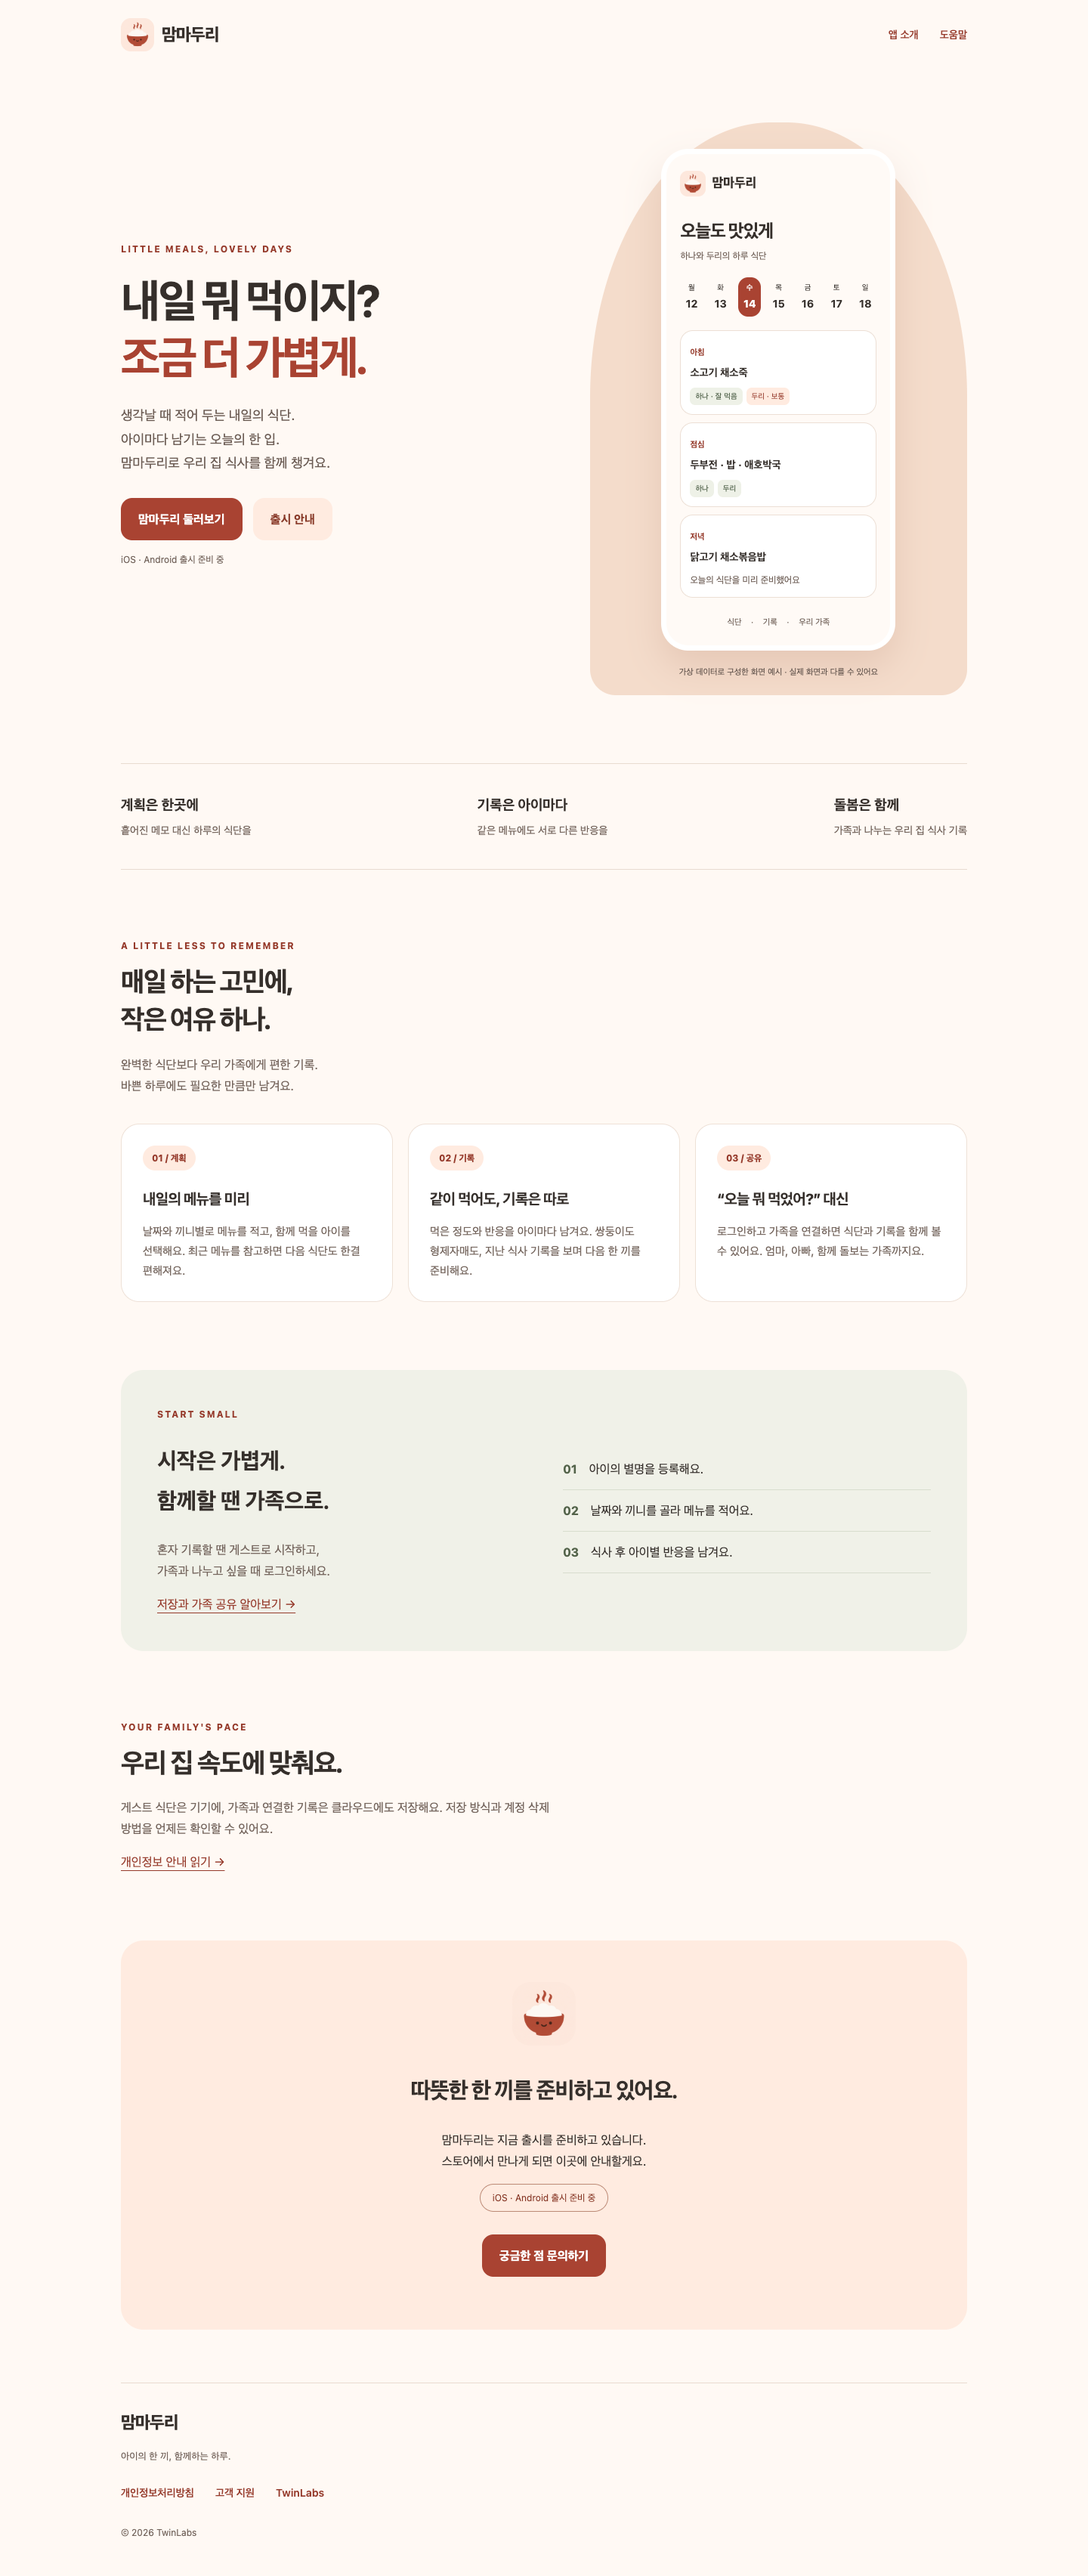
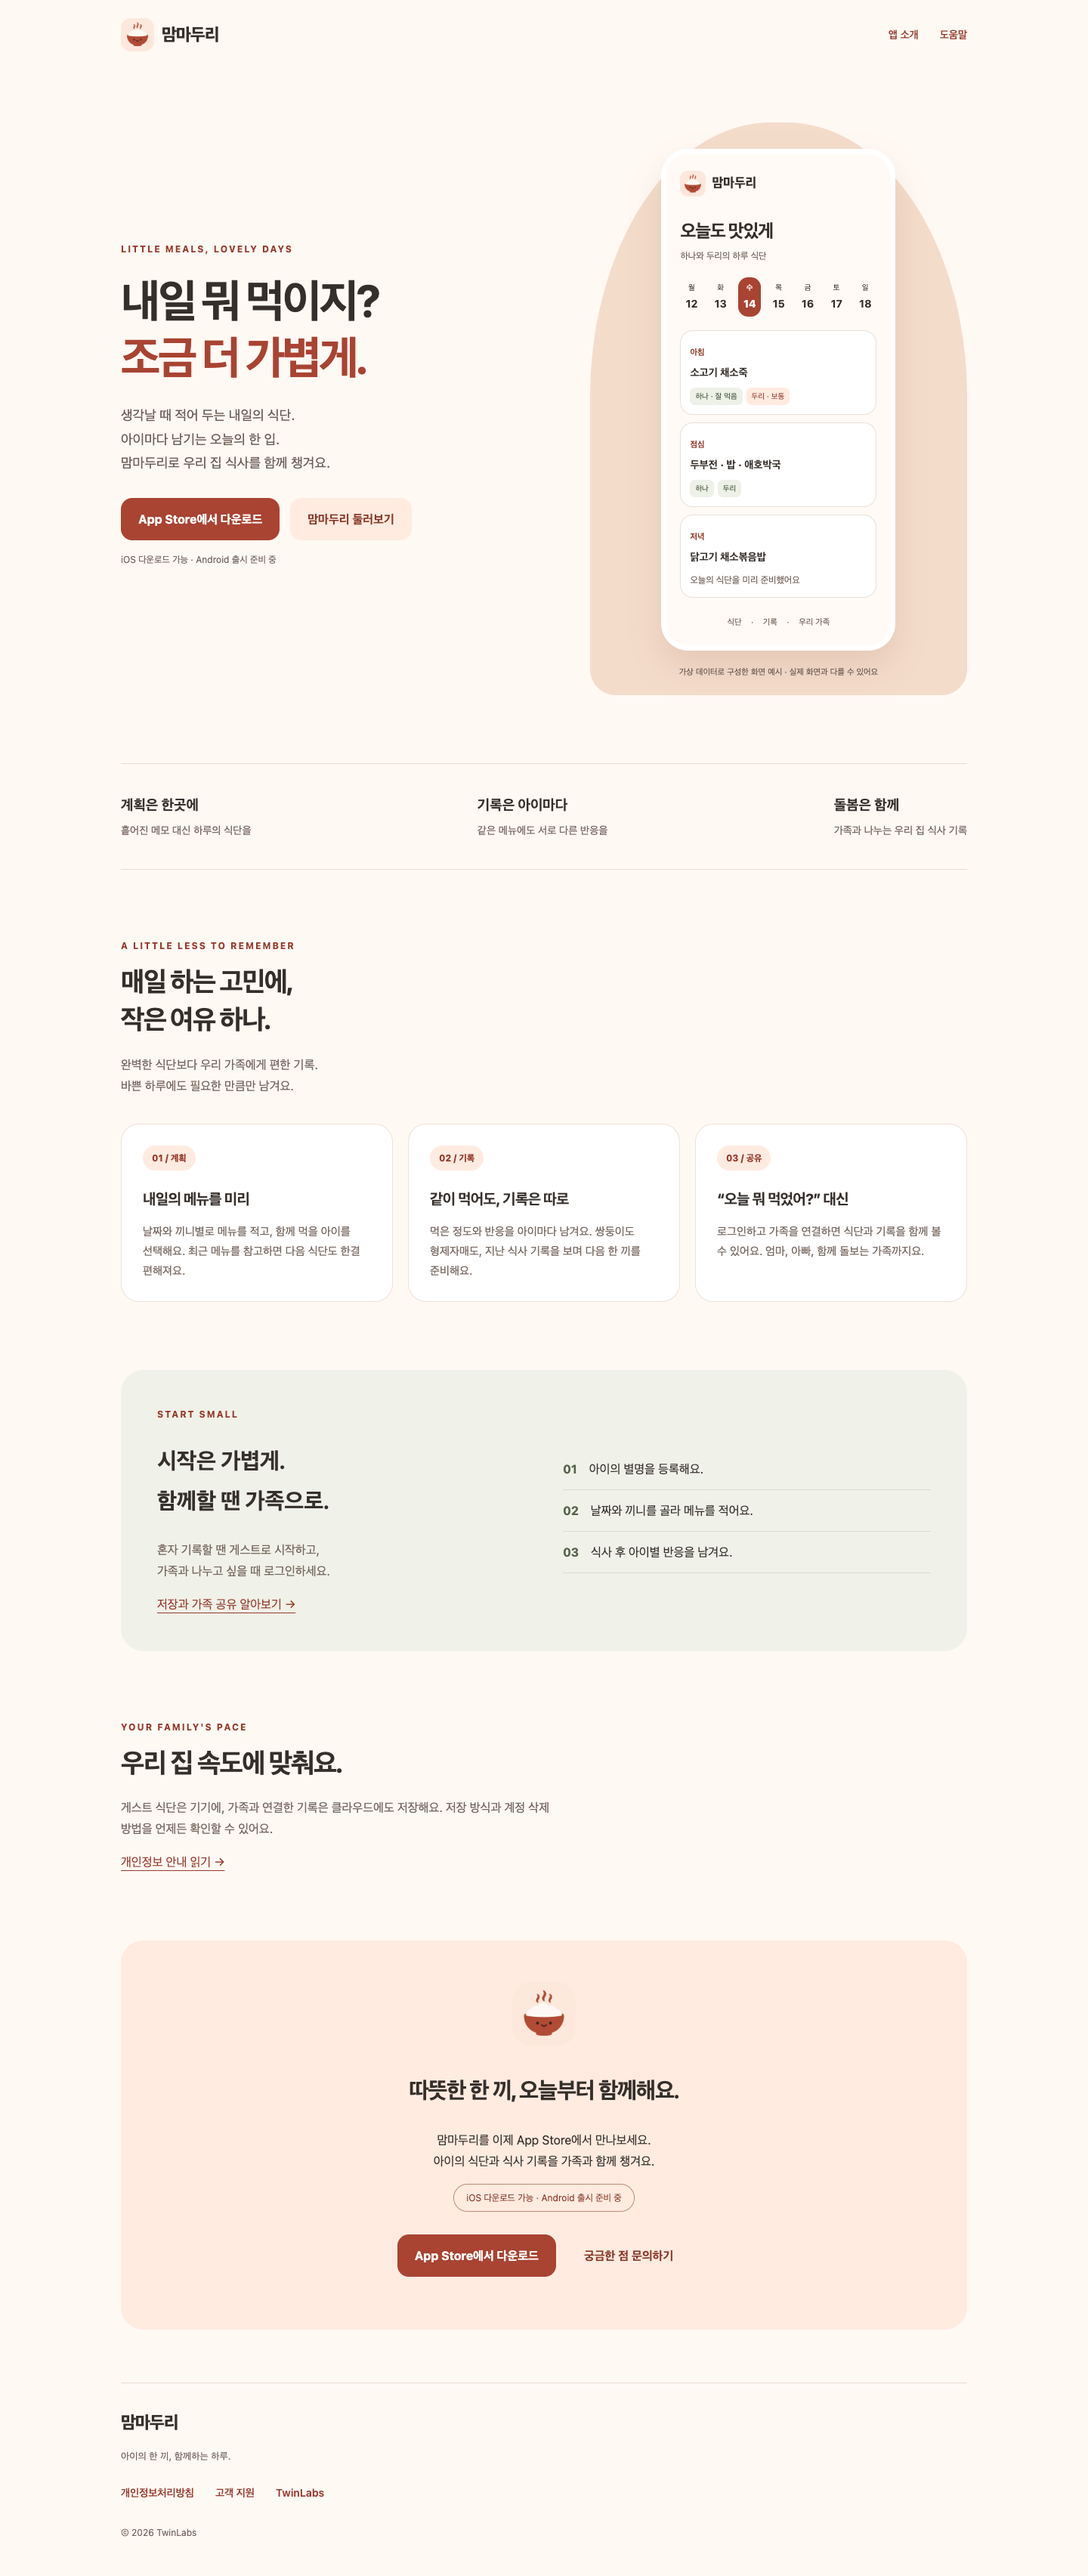
fix: add Mammaduri iOS App Store download links

Changed region(s): [[0.3438, 0.8084, 0.625, 0.9017], [0.125, 0.1866, 0.2812, 0.2177]]

diff --git a/mammaduri/index.html b/mammaduri/index.html
@@ -34,10 +34,10 @@
               입.<br />맘마두리로 우리 집 식사를 함께 챙겨요.
             </p>
             <div class="actions">
-              <a class="button" href="#features">맘마두리 둘러보기</a
-              ><a class="button secondary" href="#release">출시 안내</a>
+              <a class="button" href="https://apps.apple.com/kr/app/id6822993435">App Store에서 다운로드</a
+              ><a class="button secondary" href="#features">맘마두리 둘러보기</a>
             </div>
-            <p class="fine">iOS · Android 출시 준비 중</p>
+            <p class="fine">iOS 다운로드 가능 · Android 출시 준비 중</p>
           </div>
           <div class="showcase">
             <div
@@ -157,14 +157,15 @@
             height="84"
             alt="웃는 밥그릇 모양의 맘마두리 아이콘"
           />
-          <h2>따뜻한 한 끼를 준비하고 있어요.</h2>
+          <h2>따뜻한 한 끼, 오늘부터 함께해요.</h2>
           <p>
-            맘마두리는 지금 출시를 준비하고 있습니다.<br />스토어에서 만나게
-            되면 이곳에 안내할게요.
+            맘마두리를 이제 App Store에서 만나보세요.<br />아이의 식단과 식사 기록을
+            가족과 함께 챙겨요.
           </p>
-          <span class="pill">iOS · Android 출시 준비 중</span>
+          <span class="pill">iOS 다운로드 가능 · Android 출시 준비 중</span>
           <div class="actions">
-            <a class="button" href="support.html">궁금한 점 문의하기</a>
+            <a class="button" href="https://apps.apple.com/kr/app/id6822993435">App Store에서 다운로드</a>
+            <a class="button secondary" href="support.html">궁금한 점 문의하기</a>
           </div>
         </section>
       </div>

diff --git a/index.html b/index.html
@@ -103,8 +103,8 @@
     <h2>앱</h2>
     <div class="apps">
       <article class="app-card">
-        <h3>맘마두리</h3><p>아이의 식단을 계획하고 식사 기록을 가족과 함께 챙기는 앱입니다. 출시 준비 중입니다.</p>
-        <div class="links"><a href="/mammaduri/">앱 소개</a><a href="/mammaduri/privacy-policy.html">개인정보처리방침</a><a href="/mammaduri/support.html">지원</a></div>
+        <h3>맘마두리</h3><p>아이의 식단을 계획하고 식사 기록을 가족과 함께 챙기는 앱입니다. iOS 앱을 App Store에서 만나보세요.</p>
+        <div class="links"><a href="https://apps.apple.com/kr/app/id6822993435">iOS 다운로드</a><a href="/mammaduri/">앱 소개</a><a href="/mammaduri/privacy-policy.html">개인정보처리방침</a><a href="/mammaduri/support.html">지원</a></div>
       </article>
       <article class="app-card">
         <h3>채권온도</h3>

diff --git a/mammaduri/support.html b/mammaduri/support.html
@@ -80,8 +80,8 @@
         <details>
           <summary>어디에서 다운로드하나요?</summary>
           <p>
-            현재 스토어 출시를 준비하고 있어요. 공개 다운로드 주소가 확인되면
-            <a href="./#release">앱 소개 페이지</a>에 안내할게요.
+            iOS 앱은 <a href="https://apps.apple.com/kr/app/id6822993435">App Store에서 다운로드</a>할 수 있어요.
+            Android 앱은 출시 준비 중이에요.
           </p>
         </details>
       </section>

diff --git a/docs/runbooks/mammaduri-web-release.md b/docs/runbooks/mammaduri-web-release.md
@@ -1,7 +1,16 @@
 # 맘마두리 웹 미리보기·공개 절차
 
 ## 현재 상태
-2026-10-05: 소개·지원·개인정보 검토본 구현. 공개 배포하지 않았다. 모든 새 페이지에 `noindex`를 두었으며 스토어 링크는 출시 준비 상태다. 기존 Debt Freedom 및 다른 앱 페이지는 변경하지 않았다. TwinLabs 루트에는 맘마두리 카드만 추가했다.
+2026-10-31: iOS 출시 후 소개 페이지 상단·하단, 지원 FAQ, TwinLabs 루트 앱 카드에 [공식 App Store 다운로드](https://apps.apple.com/kr/app/id6822993435)를 연결했다. Apple 공개 조회 API에서 앱 이름과 번들 ID `studio.twinlabs.mammaduri`가 일치함을 확인했다. Android는 출시 준비 안내를 유지한다.
+
+배포 저장소는 `i-kay/twinlabs-site`, 배포 브랜치는 `main`이며 정적 파일은 저장소 루트에 있다. `CNAME`은 `twinlabs.studio`다. GitHub Actions의 `pages build and deployment` 실행에서 대상 커밋의 build/deploy 성공을 확인하고, 공개 URL의 HTML에 다운로드 링크가 반영되었는지 확인한다. gh 인증 없이도 공개 Actions API는 조회할 수 있지만 Pages 설정 API는 404를 반환할 수 있다.
+
+```sh
+curl -fsSL 'https://api.github.com/repos/i-kay/twinlabs-site/actions/runs?per_page=5'
+curl -fsSL https://twinlabs.studio/mammaduri/
+```
+
+기존 검색 노출 설정과 개인정보 정책은 이번 다운로드 링크 변경 범위에 포함하지 않았다. 아래 공개 전 운영 확인 항목은 최초 공개 당시의 체크리스트이며 각 항목의 완료 여부를 뜻하지 않는다.
 
 ## 미리보기
 저장소 루트에서 실행:
@@ -25,6 +34,8 @@ NODE_PATH=/tmp/mammaduri-web-qa/node_modules node tools/check-mammaduri.cjs
 결과는 `docs/verification/mammaduri-check.json`, 화면은 같은 디렉터리의 PNG다. Chrome 경로는 다른 운영체제에서 수정한다. HTML 문법·접근성, 내부 링크/앵커, 이미지 로드, 가로 넘침 및 첫 키보드 포커스를 확인한다. HTML 형식 규칙은 Prettier 기본 출력에 맞춘다. 자동 검사는 법률 검토나 모든 보조공학 사용자 검증을 대신하지 않는다.
 
 ## 이번 검증
+- 2026-10-31 재검증: 맘마두리 3개 페이지 × 360/390/1440px에서 HTML·axe·내부 링크·이미지·가로 넘침 검사 통과. 소개 페이지 모바일·데스크톱 다운로드 CTA 시각 확인.
+- TwinLabs 루트는 같은 세 너비에서 다운로드 링크와 가로 넘침을 확인했다. axe의 `landmark-one-main`, `region` 경고는 수정 전 HEAD에도 동일하게 존재하며 별도 후속 작업으로 남겼다.
 - 3개 페이지 × 360/390/1440px에서 렌더링, HTML 검사와 axe 검사.
 - 모바일·데스크톱 캡처에서 배치·문구·버튼·문서 읽기 흐름 점검.
 - 내부 링크/앵커 정상, 이미지 누락 및 가로 넘침 없음.
